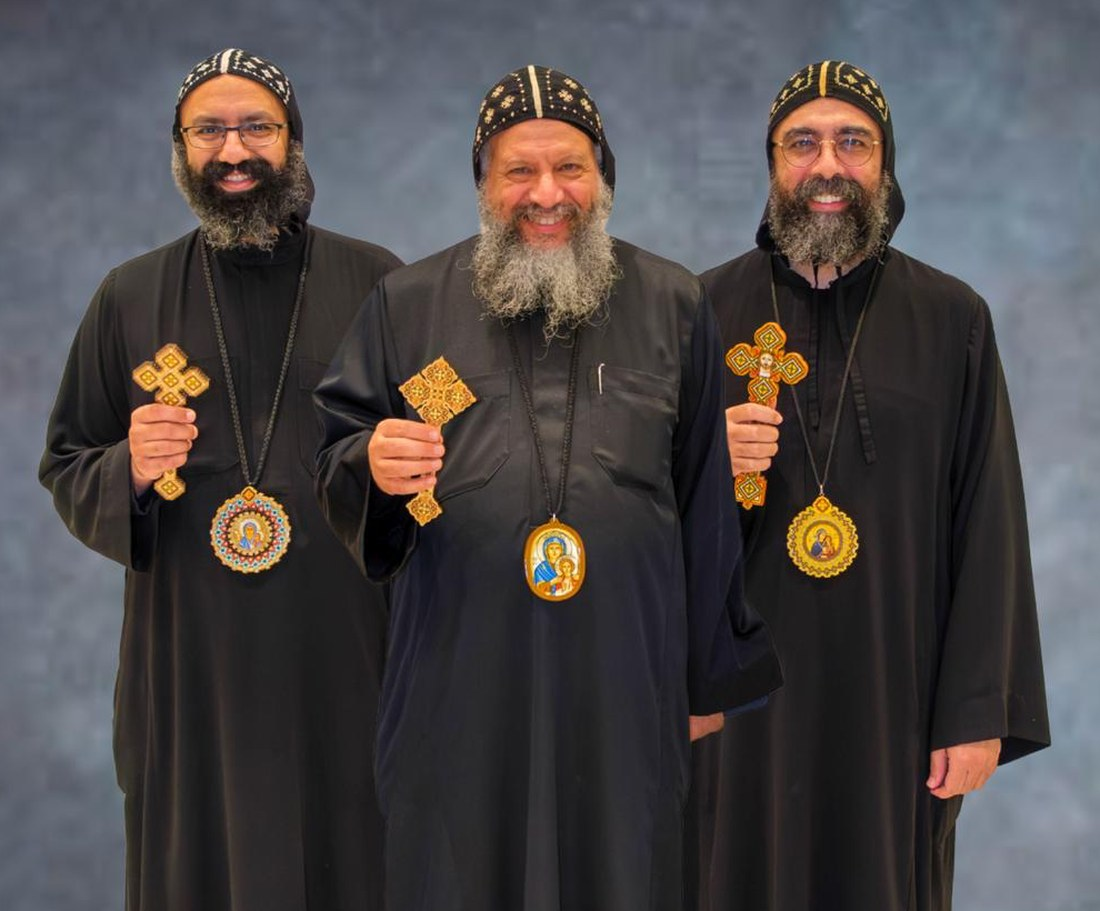
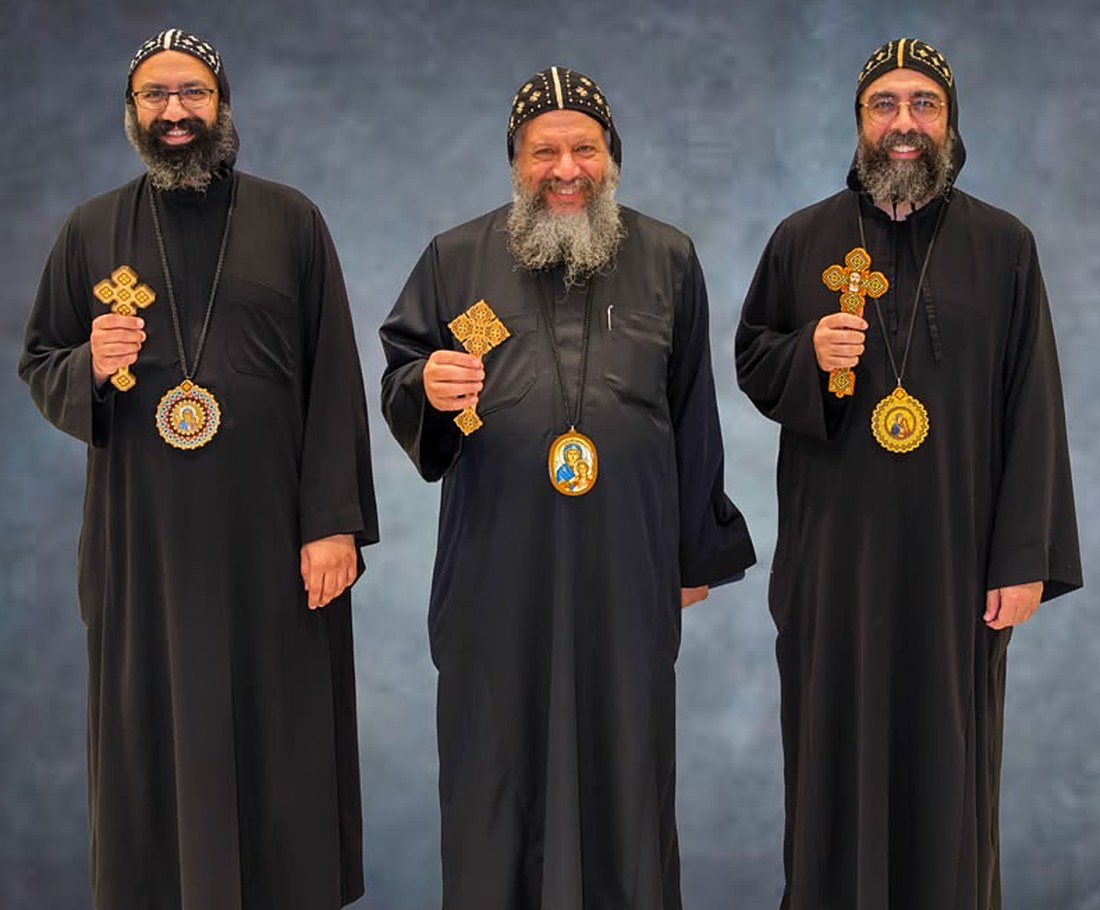
Home: new group photo with names under each father
Claude-Session: https://claude.ai/code/session_01GrjyF1SYtKvzobMvVymBWB

diff --git a/index.html b/index.html
@@ -111,7 +111,10 @@ section.pad{padding-block:4.5rem}
 .bphoto img{width:100%;aspect-ratio:1100/911;object-fit:cover;border-radius:18px;border:7px solid var(--cream);box-shadow:0 22px 44px -22px rgba(138,26,31,.55)}
 .bphoto::after{content:"";position:absolute;right:-1.1rem;top:-1.1rem;width:3.2rem;aspect-ratio:1;border-radius:50%;background:var(--red);z-index:-1}
 .person{position:relative;z-index:0}
-/* hero bishops trio (unused) */
+.names{display:grid;grid-template-columns:1fr 1.25fr 1fr;list-style:none;margin:.8rem 0 0;padding:0;max-width:24rem;text-align:center}
+.names li{font-weight:700;font-size:.82rem;line-height:1.2;color:var(--ink);padding:0 .2rem;min-width:0}
+.names small{display:block;font-size:.66rem;letter-spacing:.14em;color:var(--red);font-weight:800}
+.names .mid{color:var(--navy);font-size:.9rem}
 .spkband{text-align:left}
 .spkband .head{margin-bottom:.6rem}
 .spkband p{color:var(--cream)}
@@ -425,8 +428,8 @@ footer ul a{text-underline-offset:3px}
       </div>
       <div class="person">
         <div class="bphoto"><img src="images/bishops.jpg" alt="H.G. Bishop Basil, H.E. Metropolitan Youssef and H.G. Bishop Gregory"></div>
+        <ul class="names"><li><small>H.G.</small>Bishop Basil</li><li class="mid"><small>H.E.</small>Metropolitan Youssef</li><li><small>H.G.</small>Bishop Gregory</li></ul>
         <div class="who"><small>With our beloved</small><span>Metropolitan &amp; Bishops</span></div>
-        <div class="from">H.G. Bishop Basil · H.E. Metropolitan Youssef · H.G. Bishop Gregory</div>
       </div>
     </div>
     <svg class="curve" viewBox="0 0 1440 60" preserveAspectRatio="none" aria-hidden="true"><path d="M0 60V20Q720 70 1440 20V60z" style="fill:var(--red)"/></svg>
